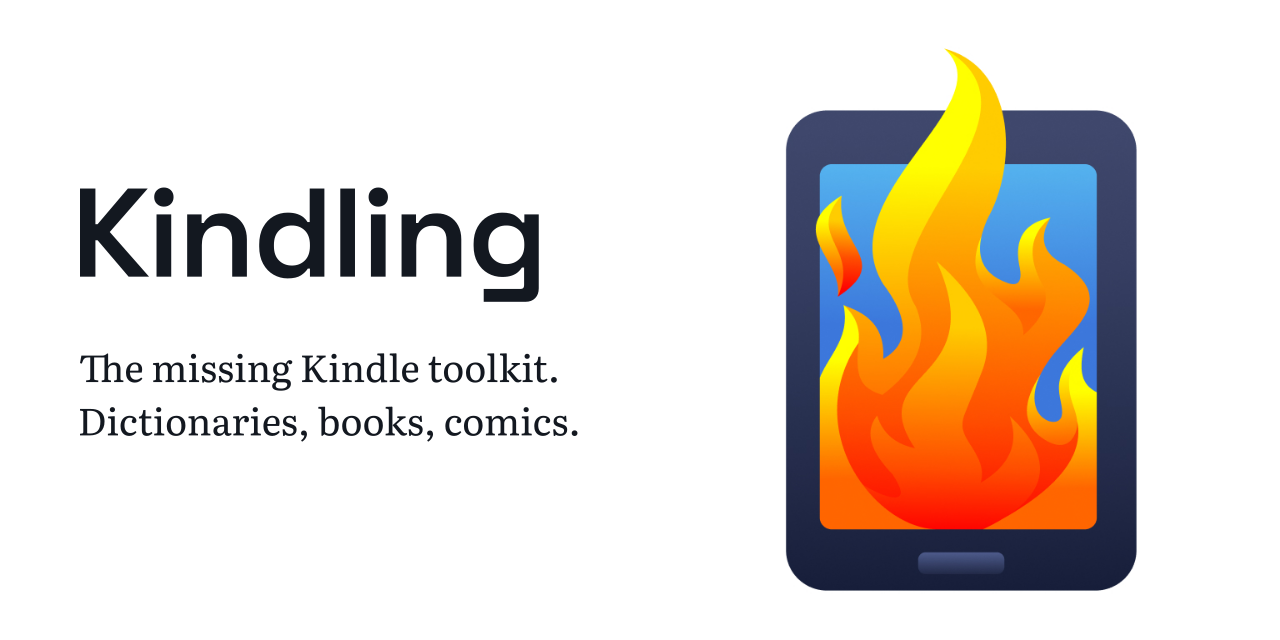
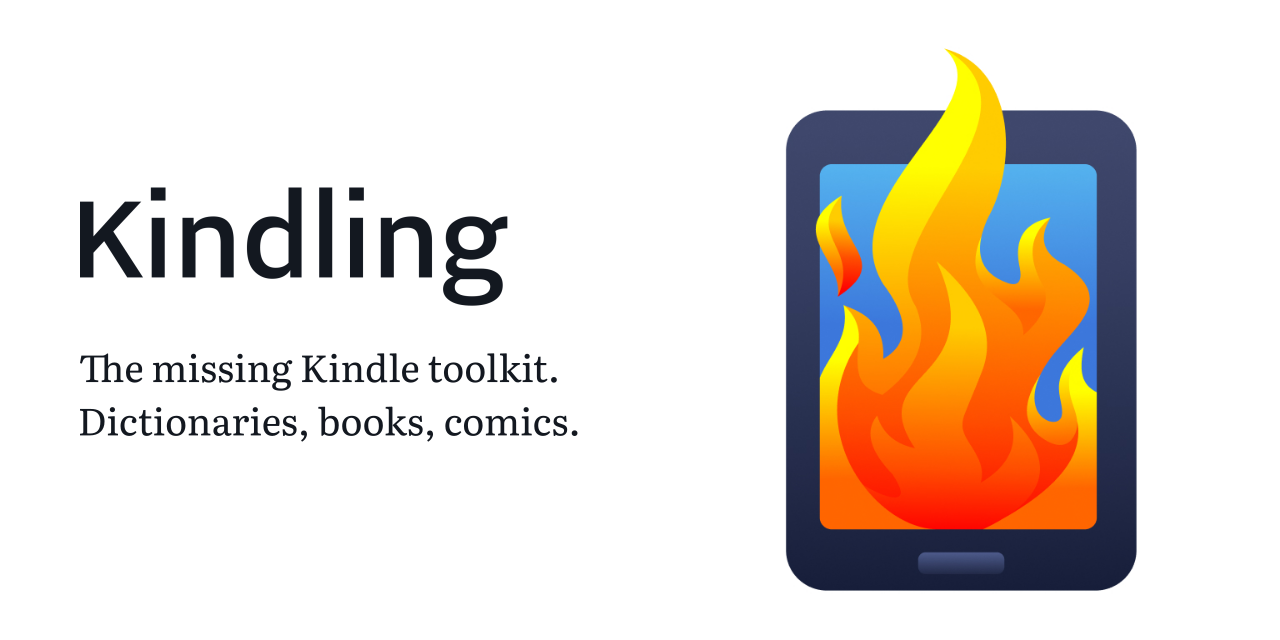
Set the Kindling wordmark in Nitti Grotesk Medium

Changed region(s): [[0.0625, 0.2812, 0.4375, 0.5]]

diff --git a/images/banner-source/README.md b/images/banner-source/README.md
@@ -1,11 +1,15 @@
 # Banner source
 
 Both banners use `banner.svg`. It clips the illustration from the original
-banner and sets the name in [Space Grotesk](https://floriankarsten.github.io/space-grotesk/)
-(weight 620) and the tagline in [Literata](https://github.com/googlefonts/literata)
-(weight 420, optical size 24). Both fonts use the SIL Open Font License 1.1.
-The SVG includes outlined lettering, so rendering does not require the fonts
-to be installed.
+banner, places the rasterized wordmark from `wordmark.png`, and draws the
+tagline in [Literata](https://github.com/googlefonts/literata) (weight 420,
+optical size 24, SIL Open Font License 1.1).
+
+The wordmark uses [Nitti Grotesk Medium](https://boldmonday.com/typefaces/nitti-grotesk/),
+designed by Pieter van Rosmalen and published by Bold Monday. It is set in
+title case at 163 px with −2 px letter spacing in the 1536 × 768 layout.
+The source PNG is rendered at three times its placement size. Neither font
+file is included or needed to regenerate the banners.
 
 From the repository root, regenerate both images with `rsvg-convert` and
 ImageMagick:
